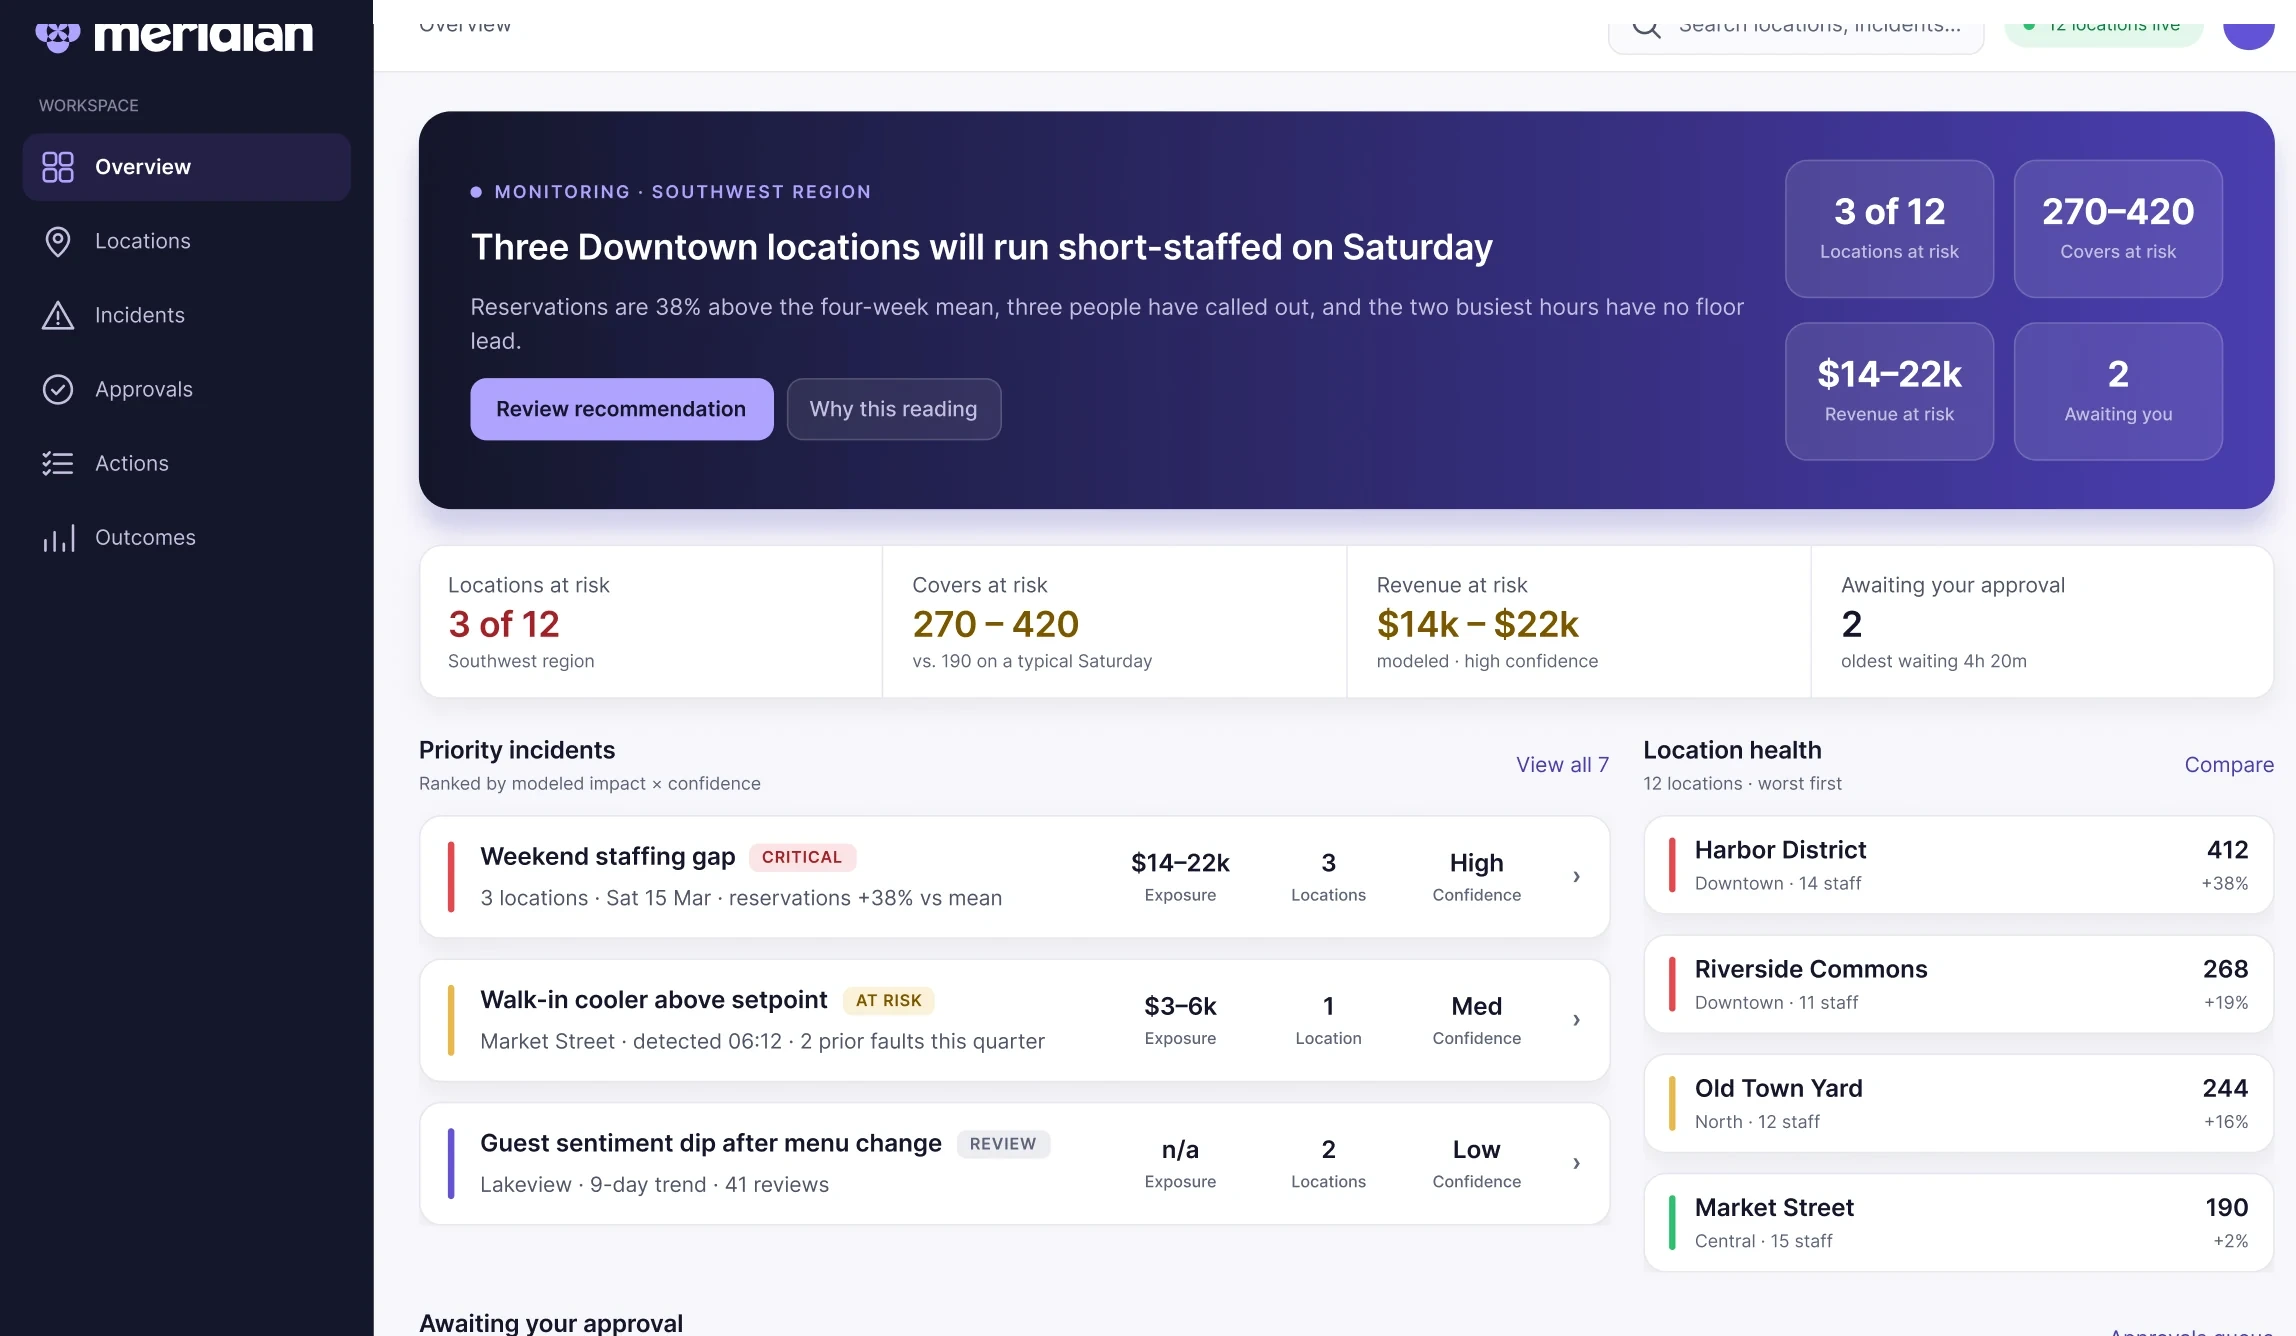
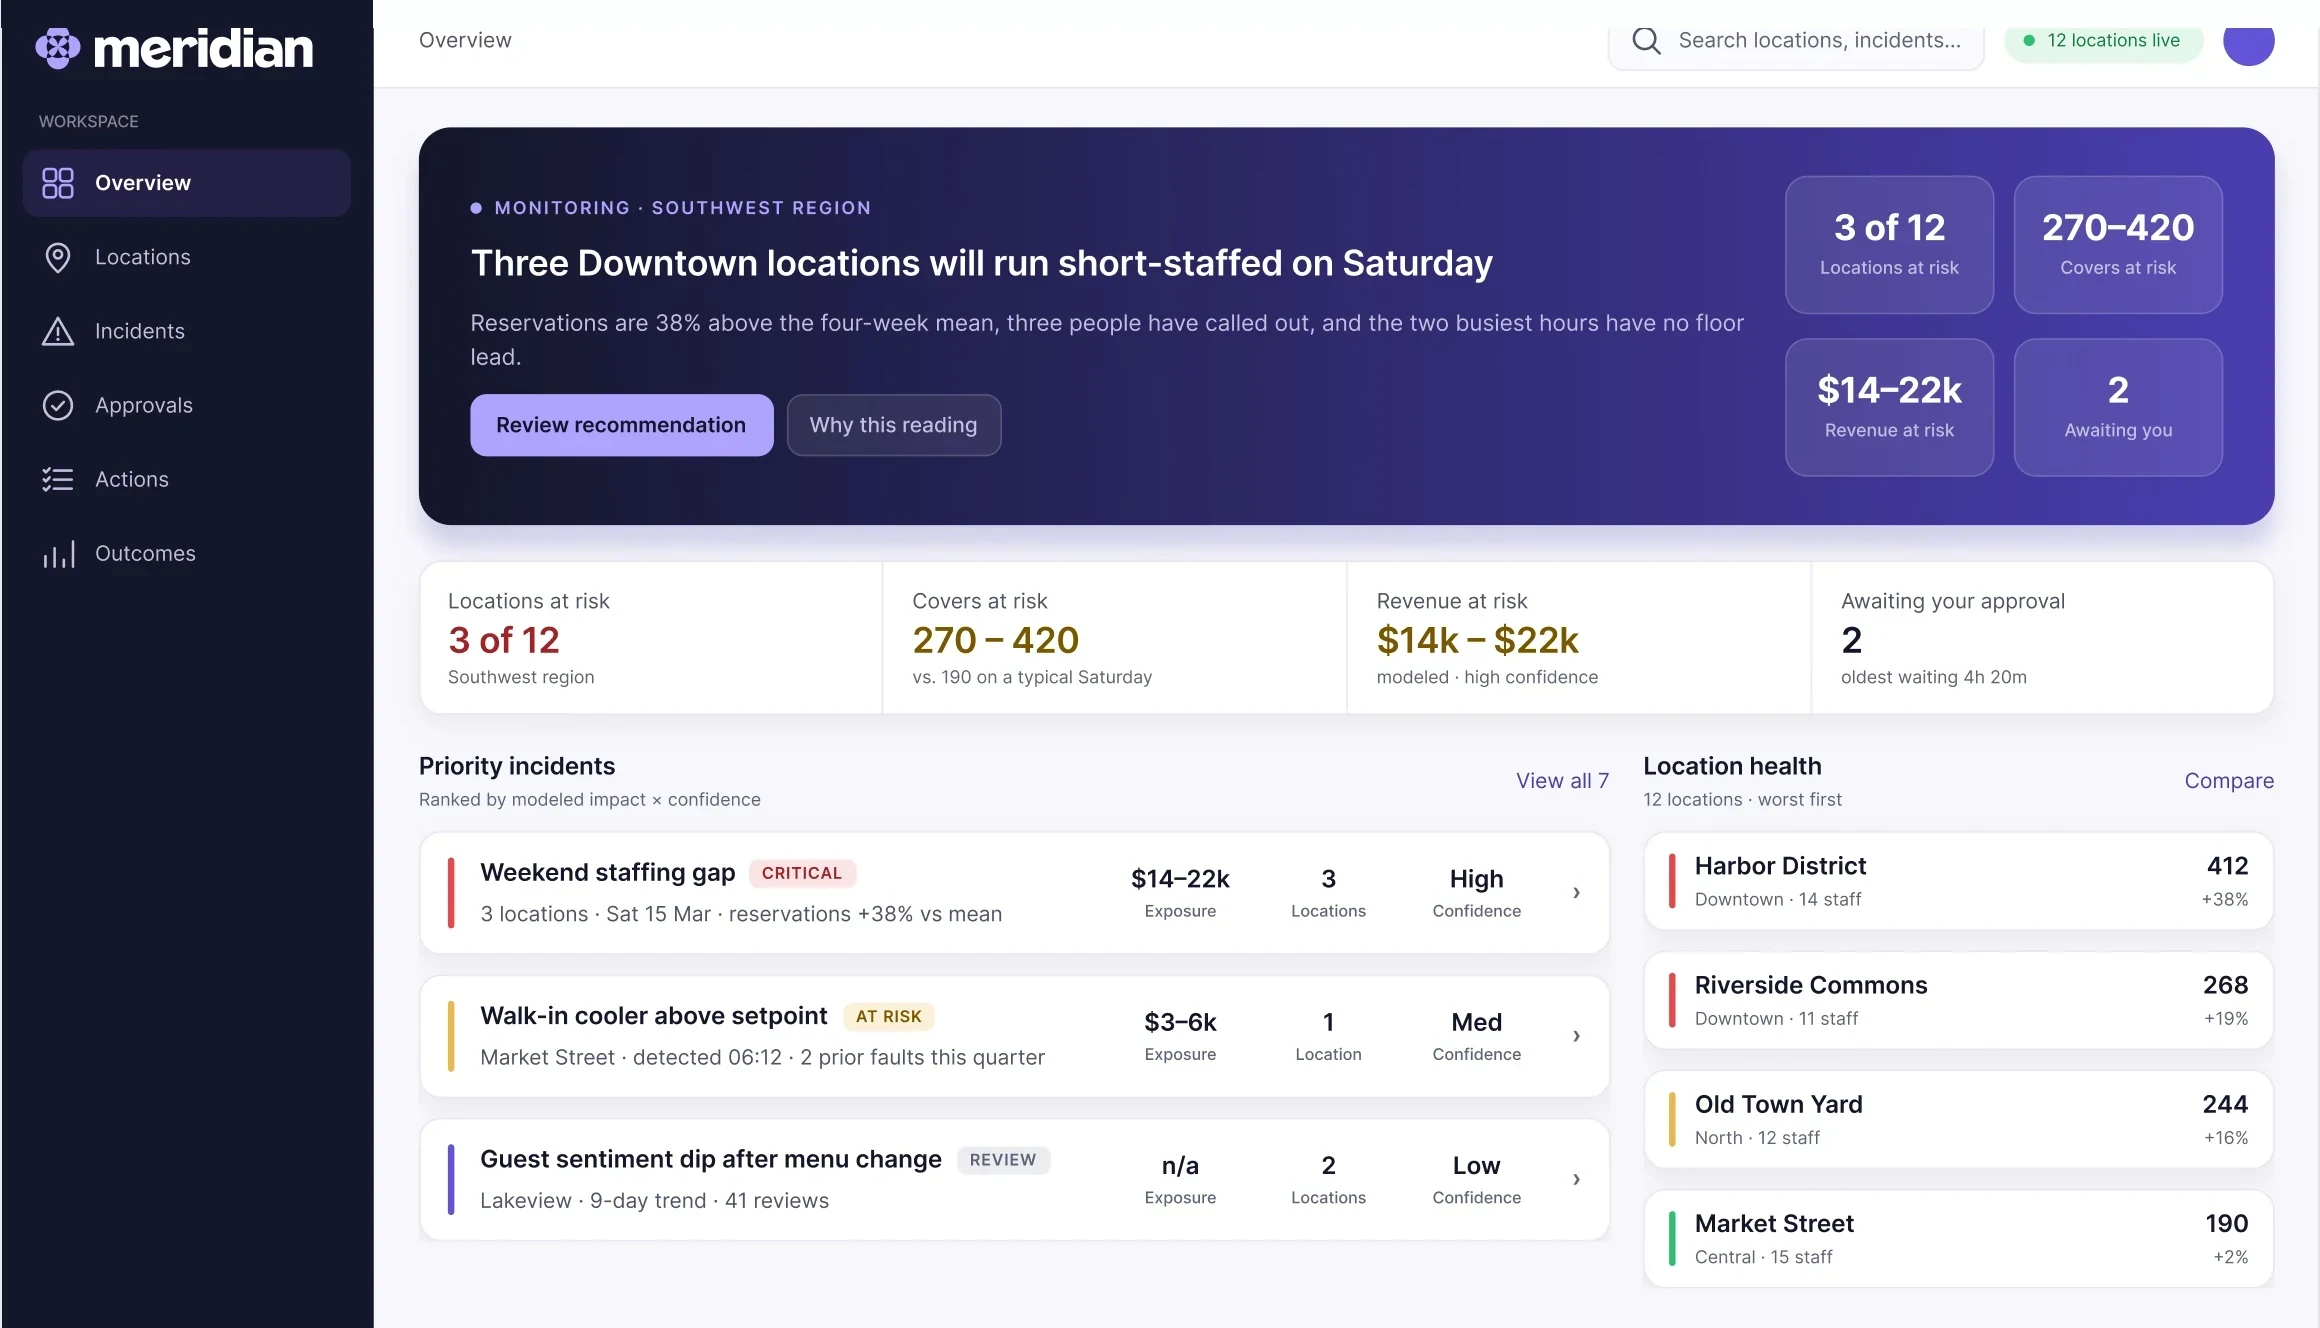
Rebuild Meridian stills from the original exports.
Restore full-page frames with top chrome padding, sync img dimensions, and note hero/edge re-export follow-ups in TODO.

diff --git a/app/meridian/page.tsx b/app/meridian/page.tsx
@@ -39,7 +39,7 @@ export default function Meridian() {
 
     <figure>
       <div className="shot">
-        <img src="/assets/meridian-hero.webp" alt="Meridian Control Tower overview screen" width="1160" height="675" loading="eager" />
+        <img src="/assets/meridian-hero.webp" alt="Meridian Control Tower overview screen" width="1160" height="664" loading="eager" />
       </div>
     </figure>
   </header>
@@ -191,7 +191,7 @@ export default function Meridian() {
     Covers at risk, revenue at risk.</p>
     <figure>
       <div className="shot">
-        <img src="/assets/meridian-control-tower.webp" alt="Control Tower: regional overview with priority incidents and approvals queue" width="1137" height="662" loading="lazy" />
+        <img src="/assets/meridian-control-tower.webp" alt="Control Tower: regional overview with priority incidents and approvals queue" width="1160" height="839" loading="lazy" />
       </div>
     </figure>
     <div className="notes">
@@ -212,7 +212,7 @@ export default function Meridian() {
     you to act until the situation's been explained in words you could repeat to your own boss.</p>
     <figure>
       <div className="shot">
-        <img src="/assets/meridian-incident.webp" alt="Incident Workspace: plain-language summary, contributing signals, evidence and recommended response" width="1137" height="662" loading="lazy" />
+        <img src="/assets/meridian-incident.webp" alt="Incident Workspace: plain-language summary, contributing signals, evidence and recommended response" width="1160" height="1296" loading="lazy" />
       </div>
     </figure>
     <div className="notes">
@@ -233,7 +233,7 @@ export default function Meridian() {
     costs, what you can undo, and how long you have to decide.</p>
     <figure>
       <div className="shot">
-        <img src="/assets/meridian-recommendation.webp" alt="Recommendation Review: four proposed actions, alternatives considered, expected effect and decision record" width="1137" height="662" loading="lazy" />
+        <img src="/assets/meridian-recommendation.webp" alt="Recommendation Review: four proposed actions, alternatives considered, expected effect and decision record" width="1160" height="1161" loading="lazy" />
       </div>
     </figure>
     <div className="notes">
@@ -255,7 +255,7 @@ export default function Meridian() {
     accept them.</p>
     <figure>
       <div className="shot">
-        <img src="/assets/meridian-outcome.webp" alt="Outcome and Learning: predicted vs actual, decision record, and proposed model changes" width="1137" height="662" loading="lazy" />
+        <img src="/assets/meridian-outcome.webp" alt="Outcome and Learning: predicted vs actual, decision record, and proposed model changes" width="1160" height="987" loading="lazy" />
       </div>
     </figure>
 
@@ -295,7 +295,7 @@ export default function Meridian() {
       threshold so you're not left wondering whether it's broken.</p>
       <figure>
         <div className="shot narrow">
-          <img src="/assets/meridian-edge-allclear.webp" alt="All-clear zero state" width="647" height="381" loading="lazy" />
+          <img src="/assets/meridian-edge-allclear.webp" alt="All-clear zero state" width="670" height="420" loading="lazy" />
         </div>
       </figure>
     </div>
@@ -306,7 +306,7 @@ export default function Meridian() {
       lists the three things that would change its mind, and offers to hand it to a person.</p>
       <figure>
         <div className="shot narrow">
-          <img src="/assets/meridian-edge-lowconfidence.webp" alt="Low-confidence state where Meridian declines to recommend" width="647" height="381" loading="lazy" />
+          <img src="/assets/meridian-edge-lowconfidence.webp" alt="Low-confidence state where Meridian declines to recommend" width="670" height="420" loading="lazy" />
         </div>
         <figcaption>Revenue at risk reads <b>Withheld · Not modeled</b>. A range this wide would just be
         a guess.</figcaption>
@@ -320,7 +320,7 @@ export default function Meridian() {
       second re-check.</p>
       <figure>
         <div className="shot narrow">
-          <img src="/assets/meridian-edge-rejected.webp" alt="Rejected approval state with recorded rationale" width="647" height="381" loading="lazy" />
+          <img src="/assets/meridian-edge-rejected.webp" alt="Rejected approval state with recorded rationale" width="670" height="420" loading="lazy" />
         </div>
       </figure>
     </div>
@@ -388,10 +388,10 @@ export default function Meridian() {
     <figure>
       <div className="theme-pair">
         <div className="shot">
-          <img src="/assets/meridian-theme-light.webp" alt="Meridian components in light mode" width="1143" height="1029" loading="lazy" />
+          <img src="/assets/meridian-theme-light.webp" alt="Meridian components in light mode" width="1143" height="1004" loading="lazy" />
         </div>
         <div className="shot">
-          <img src="/assets/meridian-theme-dark.webp" alt="The same components in dark mode" width="1143" height="1029" loading="lazy" />
+          <img src="/assets/meridian-theme-dark.webp" alt="The same components in dark mode" width="1143" height="1004" loading="lazy" />
         </div>
       </div>
       <figcaption>The same components in both modes. Verified: 0 WCAG AA failures on every text

diff --git a/components/Figure.tsx b/components/Figure.tsx
@@ -1,9 +1,10 @@
 import type { ReactNode } from "react";
 
 /**
- * The Meridian exports carry their own rounded frame and drop shadow in the
- * alpha channel, so the container adds no border, background or shadow of its
- * own. Adding any doubles the frame.
+ * The frame lives in CSS, not in the assets. `.shot` supplies the radius and
+ * shadow; the exports are opaque RGB and carry no frame of their own. Each
+ * Meridian still is padded with 28px of chrome-colored space at the top so the
+ * radius clips padding instead of the product logo.
  */
 export function Figure({
   src, alt, width, height, caption, narrow, priority,

diff --git a/TODO.md b/TODO.md
@@ -42,6 +42,23 @@ Ordered by what a reviewer notices first.
   - **Confidence toggle** — one screen, *recommend* vs *declines to recommend*. The most
     senior idea in the body of work, currently sitting in a static image.
 
+## Meridian stills
+
+- [ ] **Re-export the hero frame from Figma.** The `meridian-hero.webp` that shipped in the
+      first commit was cropped 12px into the product logo at export time — the mark's top was
+      sliced and the "Overview" breadcrumb was cut in half. The current file is a stand-in
+      derived from `meridian-control-tower.webp`, which is the same Overview screen exported
+      cleanly, trimmed to the hero's 1.72:1 slot. **Worth deciding first:** since the two are
+      the same screen, a faithful re-export gives the page the same image twice. Leading with
+      the Incident Workspace or the low-confidence edge state may be the better call.
+- [ ] **Edge-state exports end mid-content.** `edge-allclear`, `edge-lowconfidence` and
+      `edge-rejected` are faithful to their Figma exports, but each stops partway through a
+      section ("Alternatives Meridian considered" is cut under its own subtitle). Re-export
+      those three at a section boundary.
+- Originals live in `tmp-shots/origs/`. Never crop `public/assets/` in place — restore from
+  there and re-derive.
+
+
 ## Checks
 
 - [ ] **Tabular figures.** Confirm Schibsted Grotesk honors `tabular-nums` on the
